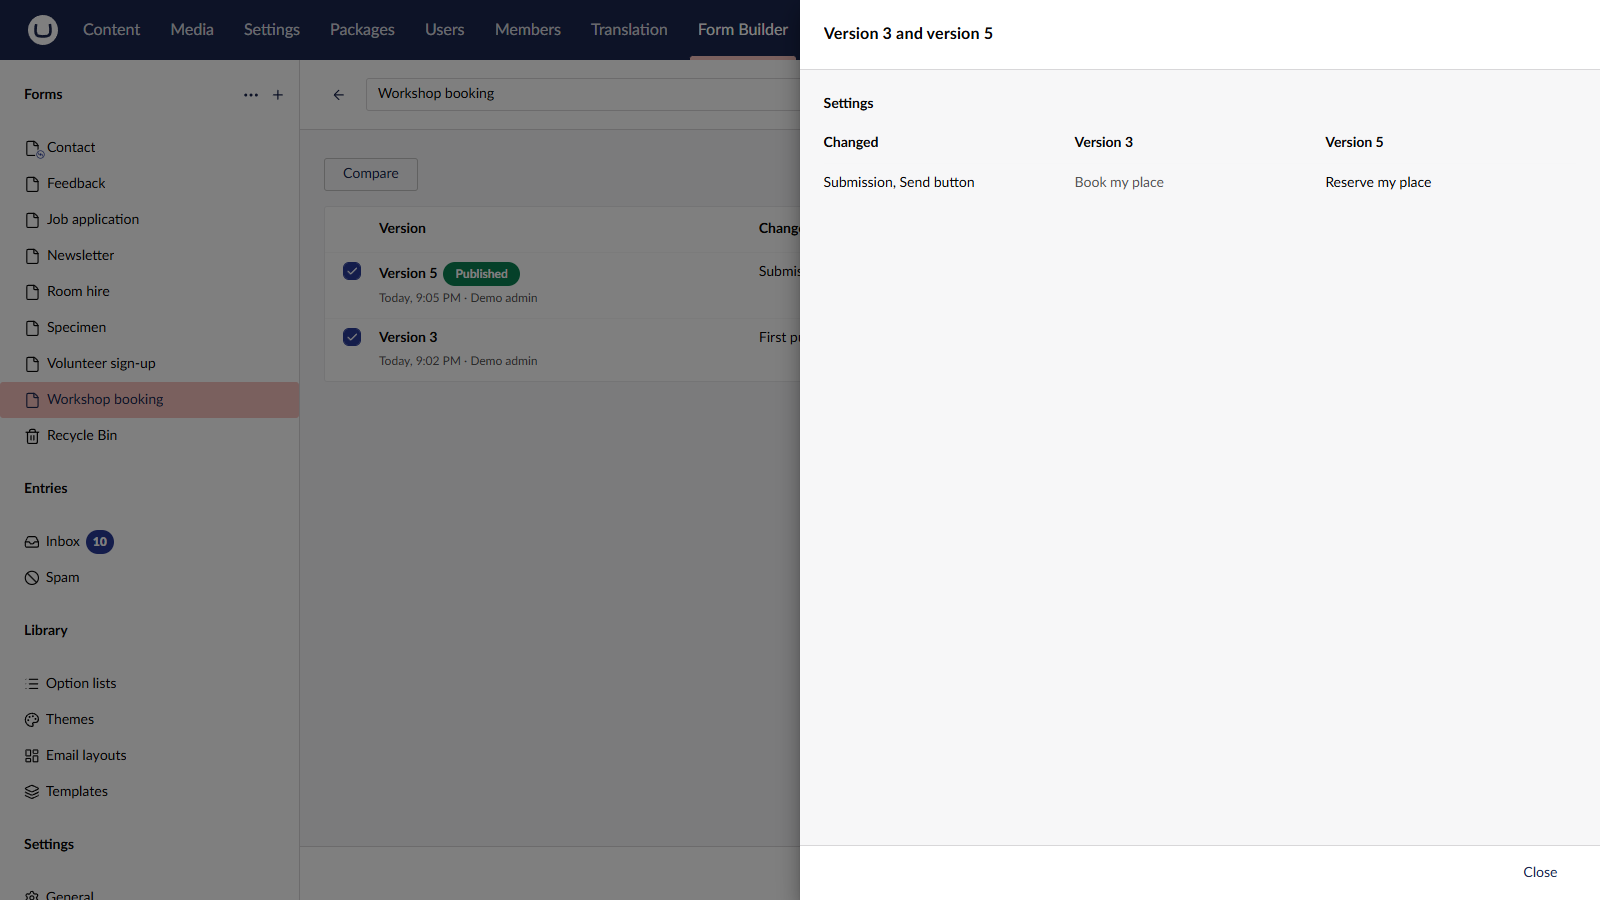
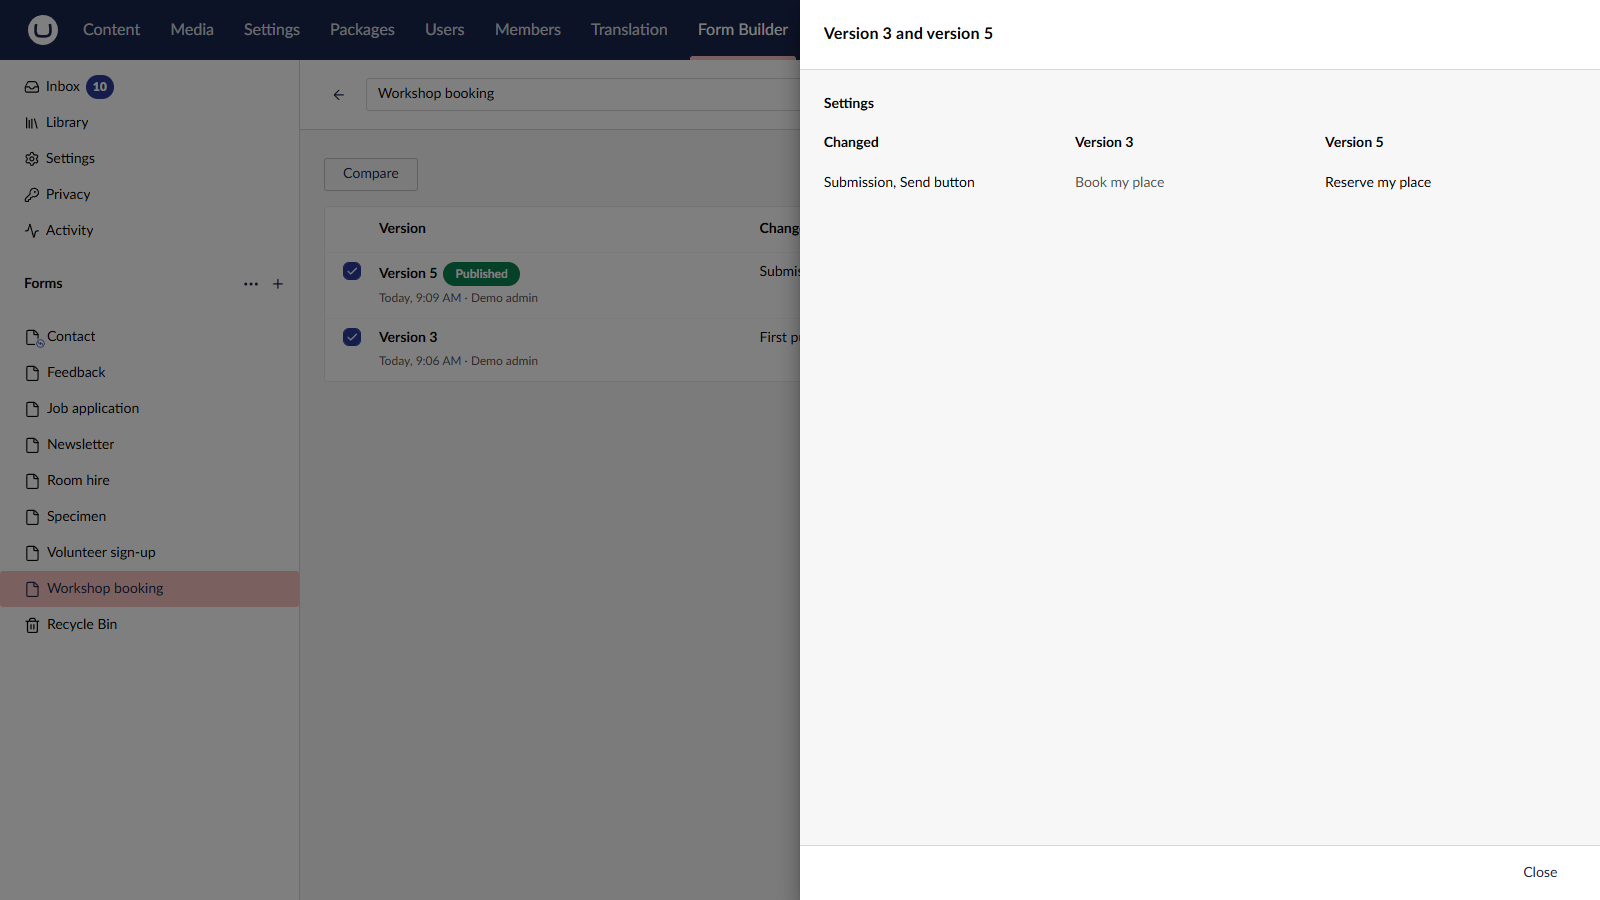
docs(screenshots): the guides' pictures show the section as it is
All nineteen pictures are taken again on a fresh demo. The script
reaches each screen the new way: a place and its tab, a form's Settings
with a group picked, "Add action" through its kind, the designer with
its field picker. It sends a view and a start with every seeded entry,
so Insights shows a conversion that can be, and takes the focus off
before a backoffice picture. The captions of the designer's, the email
action's and the theme editor's pictures say what they now show.

diff --git a/docs/themes.md b/docs/themes.md
@@ -43,7 +43,7 @@ The first of these that is set wins:
 live preview of a sample form, in light and, for a base with a dark scheme, dark. Your theme changes only what you set,
 and follows the base theme for the rest.
 
-![The theme editor: the colours and sizes on the left, the form previewed in light and dark on the right](screenshots/theme-editor.png)
+![The theme editor: the colours with their contrast on the left, the form previewed on the right](screenshots/theme-editor.png)
 
 | Section | Settings |
 | --- | --- |

diff --git a/README.md b/README.md
@@ -16,7 +16,7 @@ personal data in check with the privacy tools.
 
 New here? [Getting started](docs/getting-started.md) takes about ten minutes.
 
-![The designer: a contact form on the canvas, the palette of field types on the left, and the selected field's inspector on the right](docs/screenshots/designer.png)
+![The designer: a contact form, and the field picker open beside it](docs/screenshots/designer.png)
 
 ## Features
 
